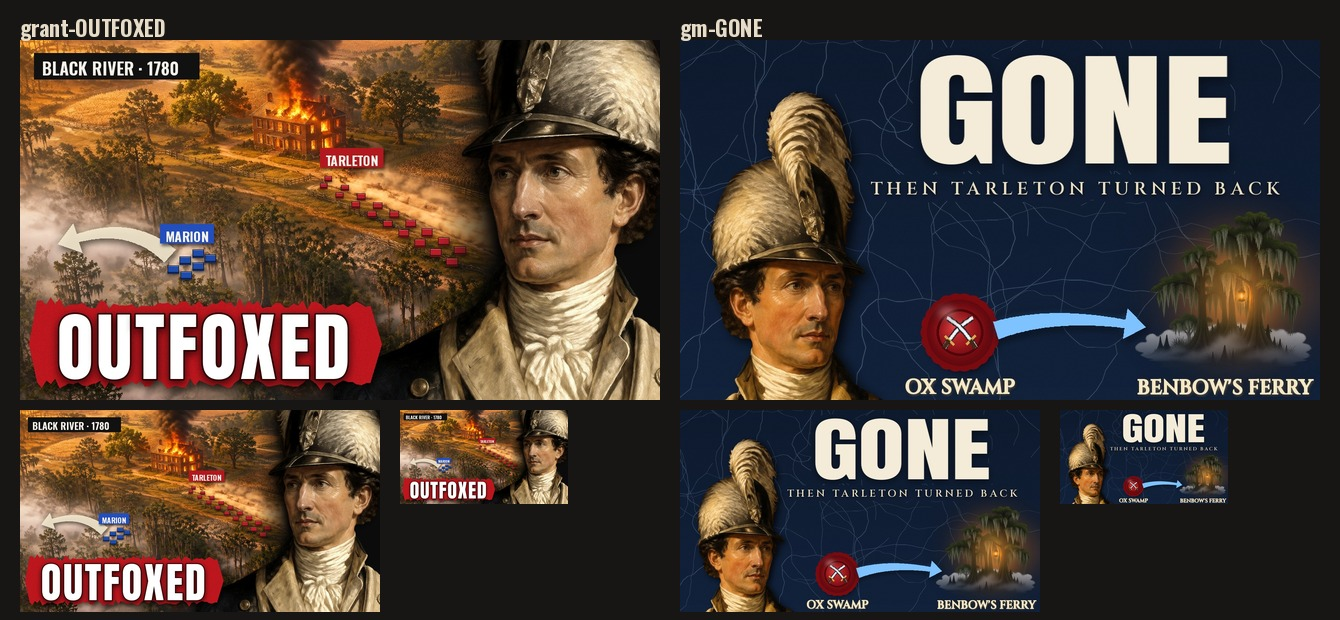
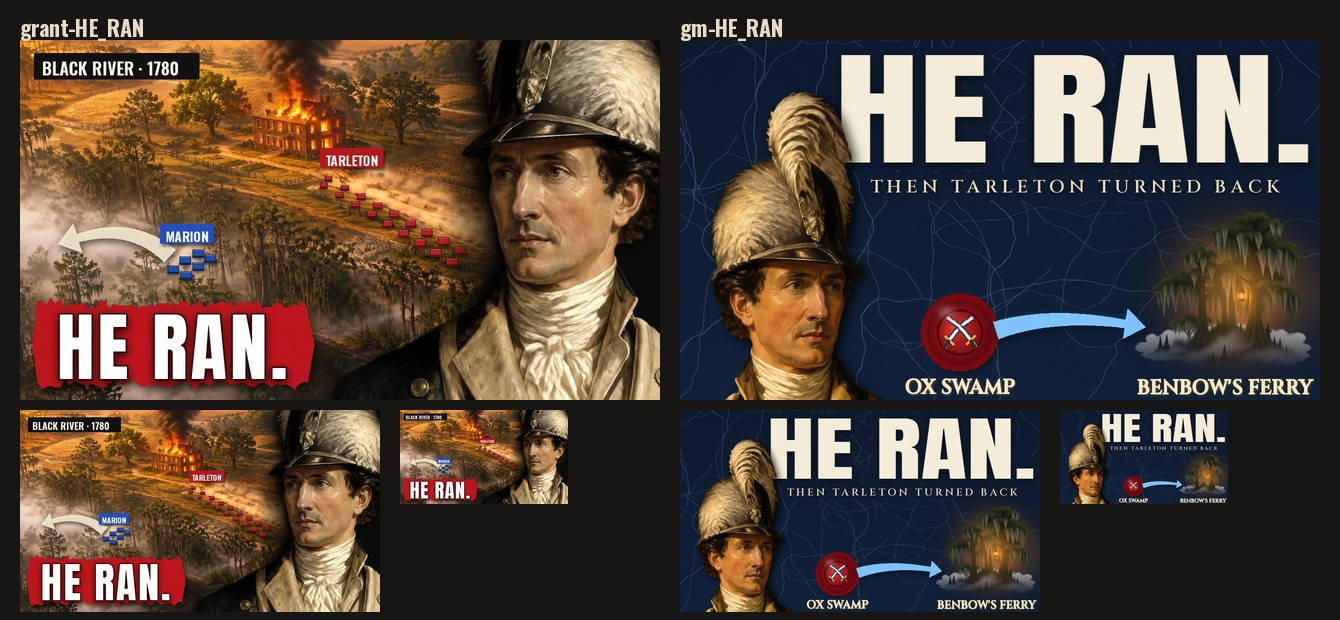
Marion #18: thumbnails with the curiosity word HE RAN. (owner insight: contradict what the viewer believes)
Claude-Session: https://claude.ai/code/session_011uJnjBffWtk5uPnY98RFHf

diff --git a/marion/tools/make_thumb_v10.py b/marion/tools/make_thumb_v10.py
@@ -120,7 +120,7 @@ def gm(word, sub, key):
     b, (fx, fy) = cutout(140, flip=False, grade="warm"); x0, y0 = int(240 - fx), int(560 - fy)
     im = place(im, b, x0, y0, (156, 196, 255), "right")
     out = f"youtube/thumb/marion-V10-gm-{key}.jpg"; im.convert("RGB").save(out, quality=94); outs.append(out)
-grant("OUTFOXED", "OUTFOXED"); gm("GONE", "THEN TARLETON TURNED BACK", "GONE")
+grant("HE RAN.", "HE_RAN"); gm("HE RAN.", "THEN TARLETON TURNED BACK", "HE_RAN")
 s = Image.new("RGB", (2 * 640 + 60, 620), (24, 22, 20)); d = ImageDraw.Draw(s); F2 = ImageFont.truetype(OS, 22)
 for i, o in enumerate(outs):
     im = Image.open(o); x = 20 + i * 660
